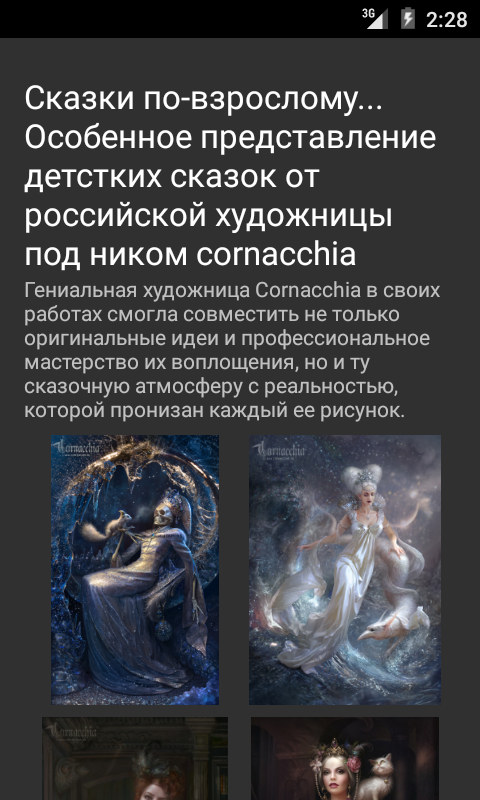
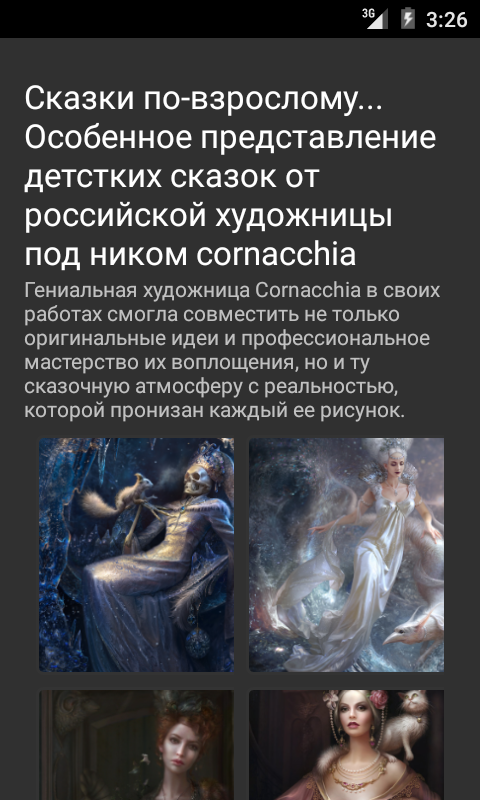
post item now have rating & comments attributes; update screens

Changed region(s): [[0.0625, 0.5312, 0.9375, 1.0], [0.9375, 0.0, 0.9688, 0.0312], [0.875, 0.0, 0.9062, 0.0312]]

diff --git a/TwoPhoto/app/src/main/java/com/github/petropavel13/twophoto/views/PostItemView.kt b/TwoPhoto/app/src/main/java/com/github/petropavel13/twophoto/views/PostItemView.kt
@@ -19,6 +19,8 @@ class PostItemView: LinearLayout {
     var authorTextView: TextView? = null
     var tagsTextView: TextView? = null
     var faceImageView: ImageView? = null
+    var commentsCountTextView: TextView? = null
+    var ratingTextView: TextView? = null
 
     override fun onFinishInflate() {
         super.onFinishInflate()
@@ -27,6 +29,17 @@ class PostItemView: LinearLayout {
         authorTextView = findViewById(R.id.post_item_author_text_view) as? TextView
         tagsTextView = findViewById(R.id.post_item_tags_text_view) as? TextView
         faceImageView = findViewById(R.id.post_item_face_image_view) as? ImageView
+        commentsCountTextView = findViewById(R.id.post_item_comments_count_text_view) as? TextView
+        ratingTextView = findViewById(R.id.post_item_rating_text_view) as? TextView
+
+        val attributesBackgroundView = findViewById(R.id.post_item_attributes_background_view)
+        val attributesLayout = findViewById(R.id.post_item_attributes_layout)
+
+        attributesLayout?.getViewTreeObserver()?.addOnGlobalLayoutListener{
+            val newParams = attributesBackgroundView?.getLayoutParams()
+            newParams?.width = attributesLayout?.getMeasuredWidth()
+            attributesBackgroundView?.setLayoutParams(newParams)
+        }
     }
 
     constructor(ctx: Context): super(ctx) { }
@@ -48,6 +61,8 @@ class PostItemView: LinearLayout {
             titleTextView?.setTextColor(Color.parseColor(_post.color))
             authorTextView?.setText("Автор: ${newValue.author.name}")
             tagsTextView?.setText("Теги: ${newValue.tags.map { it.title }.join(", ")}")
+            commentsCountTextView?.setText(newValue.number_of_comments.toString())
+            ratingTextView?.setText("${newValue.rating}%")
 
             Picasso.with(getContext())
                     .cancelRequest(faceImageView)
